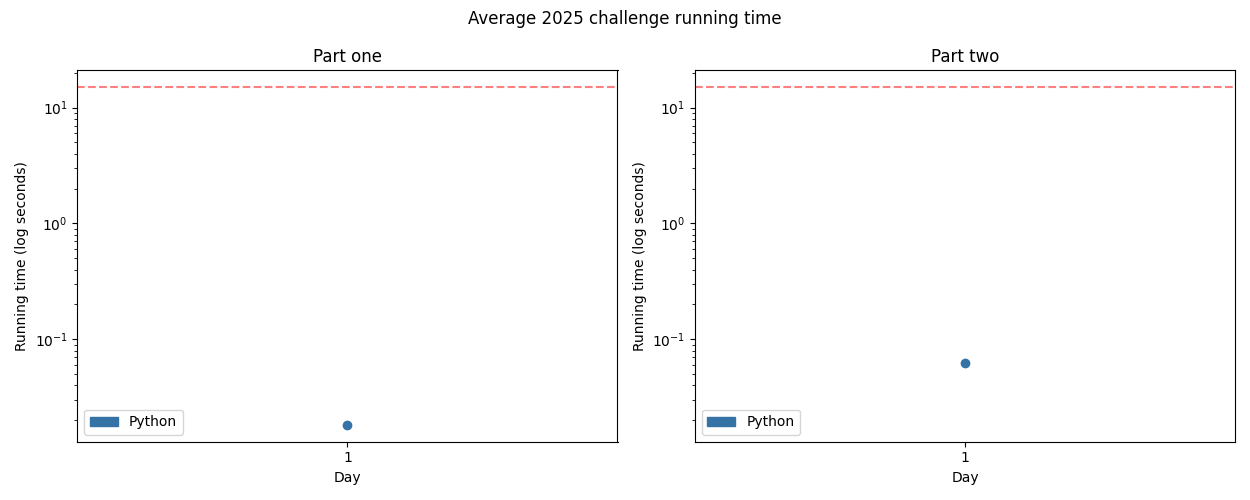
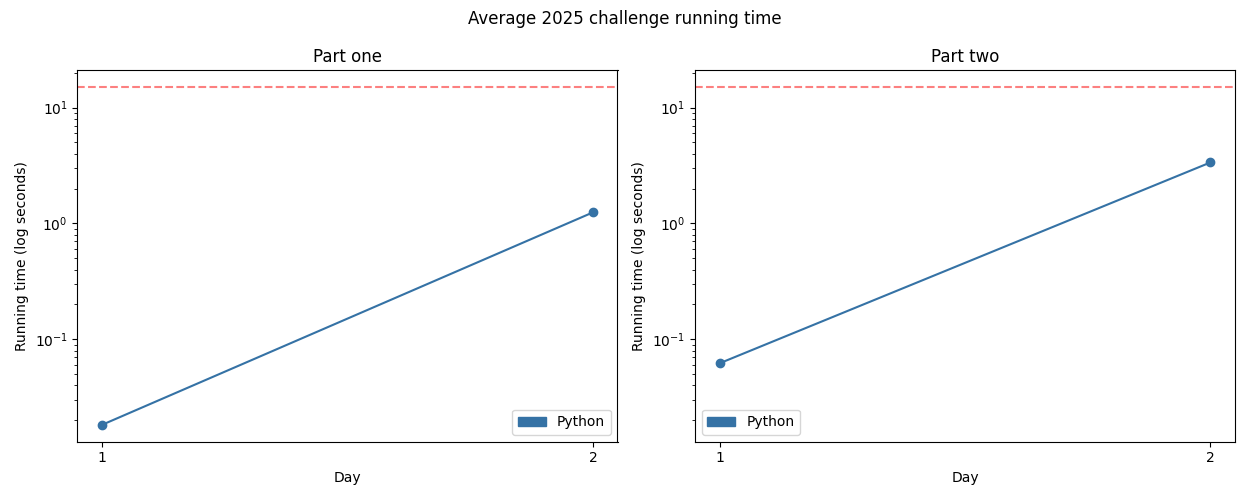
2025-02

diff --git a/challenges/2025/02-giftShop/main.py b/challenges/2025/02-giftShop/main.py
@@ -1,0 +1,64 @@
+import sys
+
+
+def parse(instr: str) -> list[tuple[int, int]]:
+    return list(
+        zip(
+            (p := tuple(map(int, instr.replace("-", ",").split(","))))[::2],
+            p[1::2],
+        ),
+    )
+
+
+def is_repeated_once(n: int) -> bool:
+    nstr = str(n)
+    if len(nstr) % 2 != 0:
+        return False
+    midpoint = int(len(nstr) / 2)
+    return nstr[:midpoint] == nstr[midpoint:]
+
+
+def one(instr: str) -> int:
+    parsed = parse(instr)
+    n = 0
+    for (start, end) in parsed:
+        for i in range(start, end + 1):
+            if is_repeated_once(i):
+                n += i
+    return n
+
+
+def has_repeated_segments(n: int) -> bool:
+    nstr = str(n)
+    max_segment_len = int(len(nstr) / 2)
+    for i in range(1, max_segment_len + 1):
+        if len(nstr) % i == 0:
+            if nstr == nstr[i:] + nstr[:i]:
+                return True
+    return False
+
+
+def two(instr: str) -> int:
+    parsed = parse(instr)
+    n = 0
+    for (start, end) in parsed:
+        for i in range(start, end + 1):
+            if has_repeated_segments(i):
+                n += i
+    return n
+
+
+def _debug(*args, **kwargs):
+    kwargs["file"] = sys.stderr
+    print(*args, **kwargs)
+
+
+if __name__ == "__main__":
+    if len(sys.argv) < 2 or sys.argv[1] not in ["1", "2"]:
+        print("Missing day argument", file=sys.stderr)
+        sys.exit(1)
+    inp = sys.stdin.read().strip()
+    if sys.argv[1] == "1":
+        print(one(inp))
+    else:
+        print(two(inp))

diff --git a/challenges/2025/README.md b/challenges/2025/README.md
@@ -4,7 +4,7 @@ Solutions to the [2025 Advent of Code](https://adventofcode.com/2025)!
 
 ---
 
-Total stars: **2 ★**
+Total stars: **4 ★**
 
 ![Benchmark graph](./benchmark-graph.png)
 
@@ -15,3 +15,4 @@ A day denoted with an asterisk means it has a visualisation.
 | Day                                 | Status | Solutions            | Notes |
 |-------------------------------------|--------|----------------------|-------|
 | 01 - Secret Entrance                | ★ ★    | Python               |       |
+| 02 - Gift Shop                      | ★ ★    | Python               |       |

diff --git a/challenges/2025/02-giftShop/README.md b/challenges/2025/02-giftShop/README.md
@@ -1,0 +1,1 @@
+# [Day 2: Gift Shop](https://adventofcode.com/2025/day/2)
